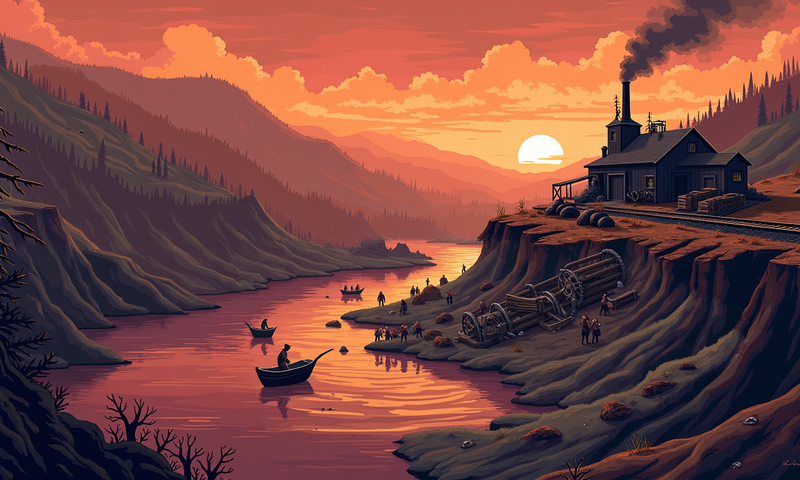
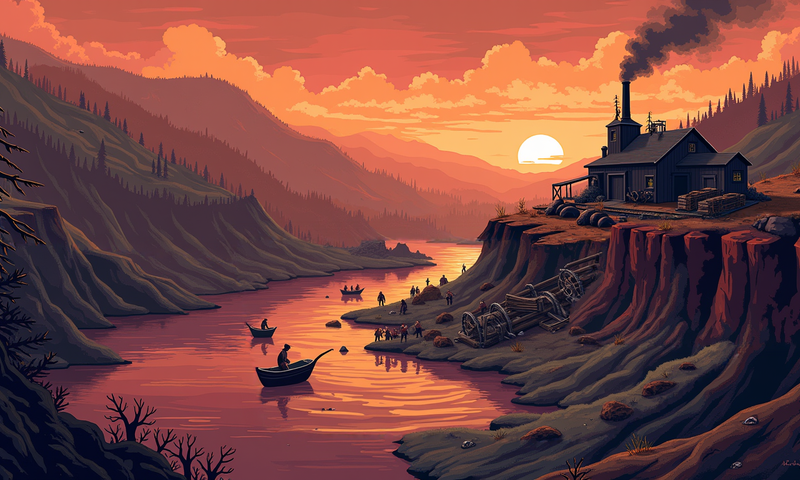
Remove the miners' dock; enemies spawn and stand on a flat bluff on the right bank
Each of the five backgrounds now has a flat-topped bluff at the right edge whose top
sits at the enemies' feet line. The dock is no longer drawn; enemies enter from off
the right edge and stand at x of about 332-380 on the bluff.

Changed region(s): [[0.6875, 0.4375, 1.0, 0.7188]]

diff --git a/claimjumper/index.html b/claimjumper/index.html
@@ -727,7 +727,7 @@ function startWave(){
   // spawning, and collision are unaffected -- only where the art is drawn.
   G.towerCx = 65 + rnd(-8, 8);
   G.towerRot = rnd(-6, 6) * D2R;
-  G.pierCx = 370 + rnd(-15, 15);
+  G.pierCx = 352 + rnd(-5, 5); // enemies' standing spot on the right bank (there is no dock any more)
   G.pierRot = rnd(-8, 8) * D2R;
   // v7.1: was G.wave===6 -- dead since the wave count was cut from 6 to 5
   // (see WAVES above), silently disabling this GDD §7.1 stretch feature.
@@ -1029,7 +1029,7 @@ function spawnMiner(){
   const tx = G.pierCx + ((kind==='rock') ? rnd(-14,22) : rnd(-18,2));
   const pool = rockSkinPool();
   const skin = (kind==='rock') ? pool[irnd(0,pool.length-1)] : null;
-  G.miners.push({ type:kind, x:G.pierCx+34, tx, state:'walk', t:0, arm:0, skin });
+  G.miners.push({ type:kind, x:G.pierCx+52, tx, state:'walk', t:0, arm:0, skin });
 }
 // --- v2: the vinegar miner (GDD §7) ---
 function maybeSpawnVinegar(){
@@ -1047,7 +1047,7 @@ function spawnVinegarMiner(){
   if (G.miners.length >= 4) return;
   // v7 §1.1: Miner/Soldier is the sole skin on the vinegar-spawn behavior.
   // v7.1: tx/x relative to G.pierCx, same reasoning as spawnMiner() above.
-  G.miners.push({ type:'vinegar', x:G.pierCx+34, tx: G.pierCx+rnd(-18,2), state:'walk', t:0, arm:0, skin:'soldier' });
+  G.miners.push({ type:'vinegar', x:G.pierCx+52, tx: G.pierCx+rnd(-18,2), state:'walk', t:0, arm:0, skin:'soldier' });
   G.banner = {text:'SOMETHING IN HIS HAND CATCHES THE LIGHT', t:45};
   sfxVinegarSpawn();
 }
@@ -1120,7 +1120,7 @@ function updateMiners(){
       // v7.1: was the fixed x=404 -- same G.pierCx-tracking fix as the
       // initial spawn in spawnMiner()/spawnVinegarMiner(), for a miner
       // re-entering after retreating offscreen.
-      m.t -= 1; if (m.t<=0){ m.state='walk'; m.x=G.pierCx+34; m.stolen=[]; }
+      m.t -= 1; if (m.t<=0){ m.state='walk'; m.x=G.pierCx+52; m.stolen=[]; }
     } else if (m.state==='walk'){
       m.x -= (m.type==='vinegar') ? 0.6 : 0.9; // vinegar miner approaches slower (GDD §6.3)
       if (m.x <= m.tx){
@@ -2367,7 +2367,6 @@ function drawPlay(){
   // v5: static pier -- always drawn, independent of whether a miner is
   // currently present (see drawMinerPier for why this is procedural
   // rather than a sprite crop).
-  drawMinerPier();
 
   const oy = G.obsY;
   drawPlatform(oy);
